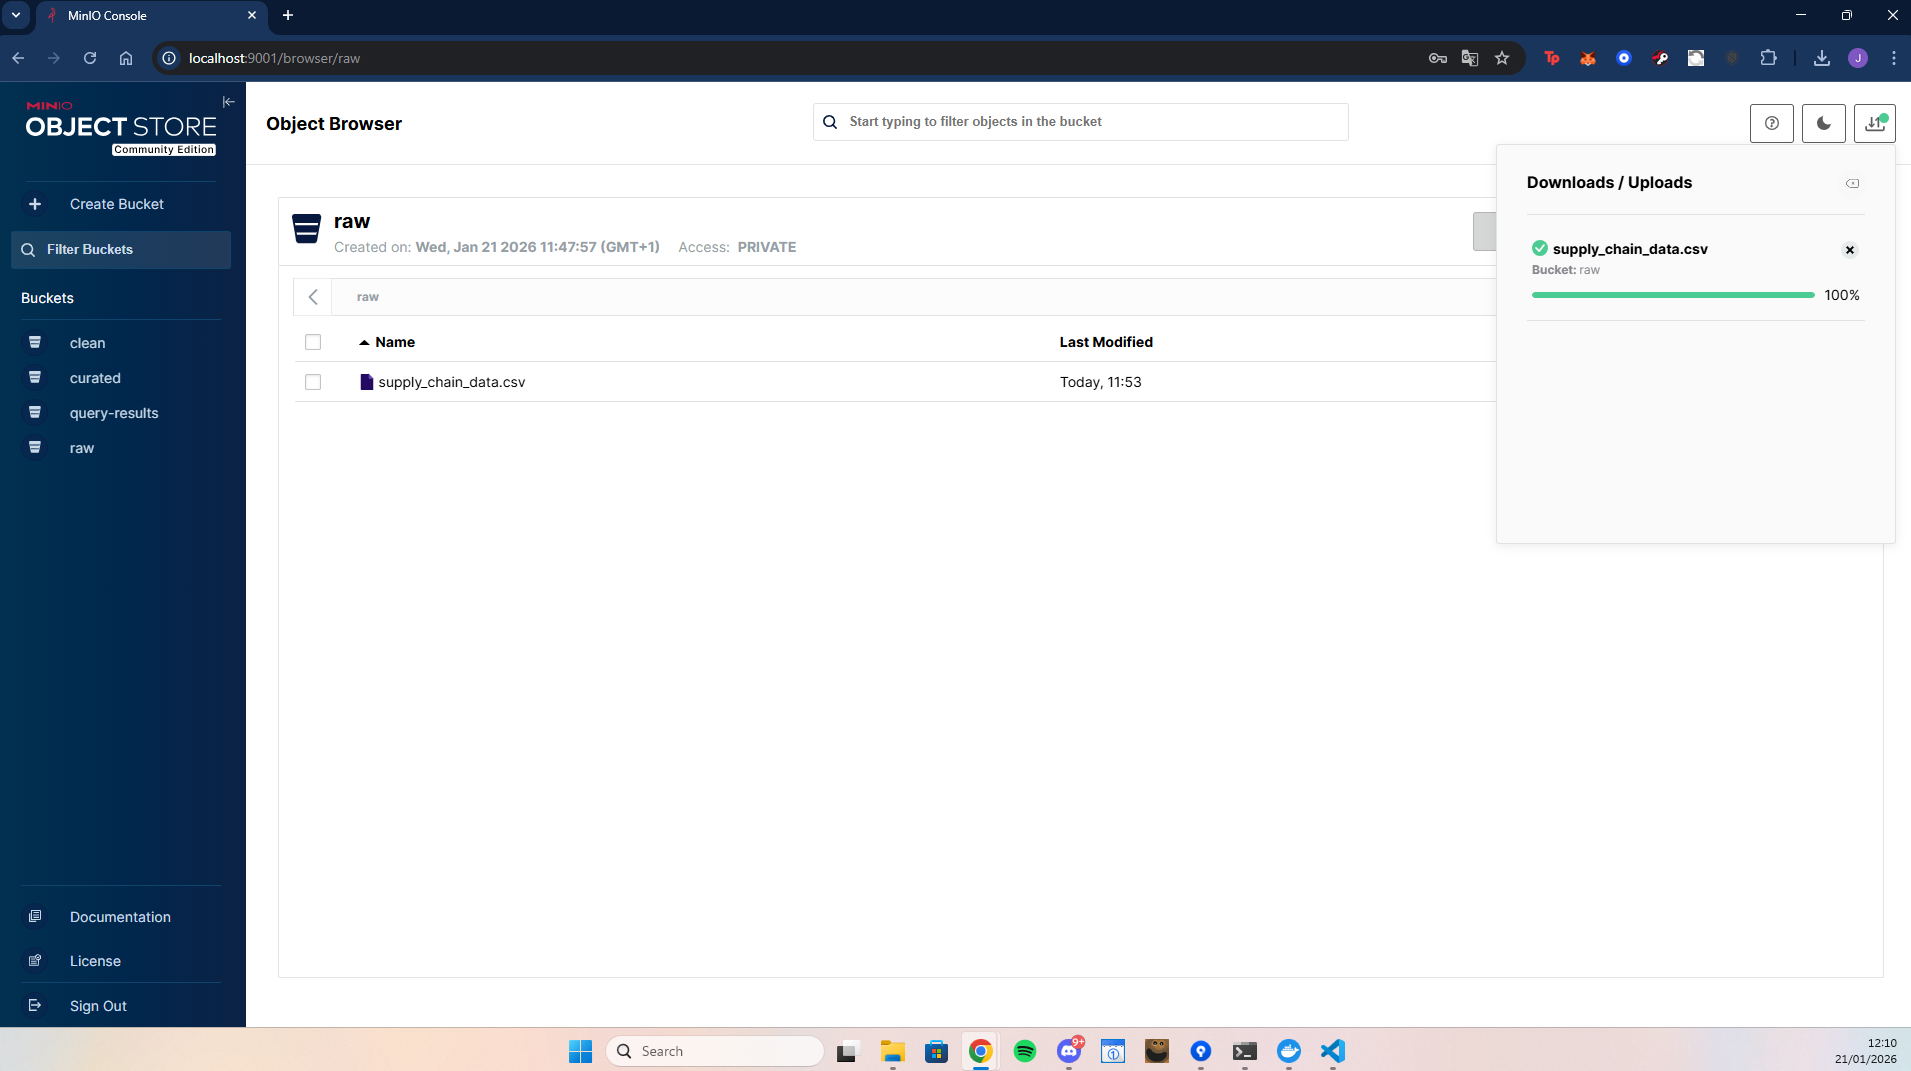
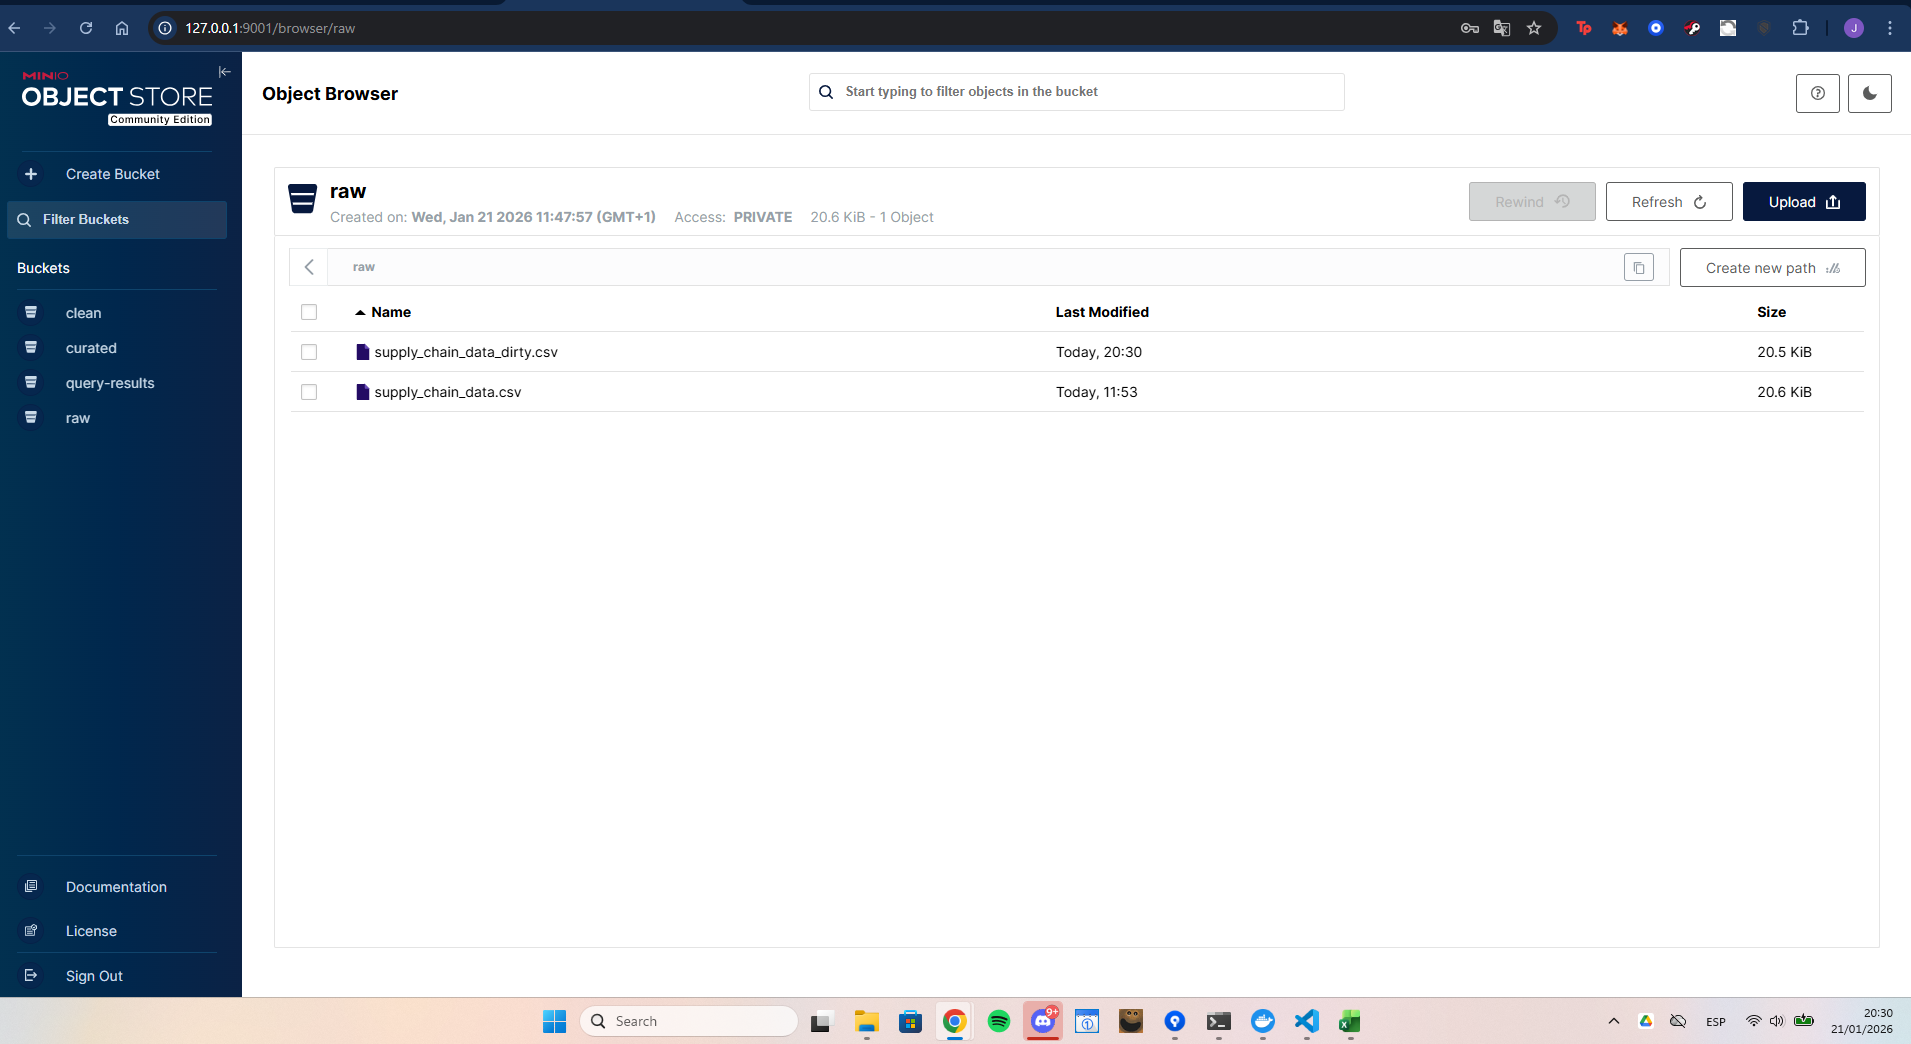
business_questions, kpis and README update

diff --git a/docs/business/kpis.md b/docs/business/kpis.md
@@ -1,0 +1,44 @@
+# KPIs (v0.1)
+
+## Operational KPIs
+1) **Avg Shipping Time**
+- Definition: Average of `Shipping times`
+- Why it matters: delivery speed performance
+
+2) **Avg Lead Time**
+- Definition: Average of `Lead times` (and/or `Lead time` after cleaning)
+- Why it matters: supply responsiveness
+
+3) **Stock Availability Rate (%)**
+- Definition: % of records where `Availability` indicates available
+- Why it matters: inventory health & customer satisfaction
+
+4) **Order Fulfillment Volume**
+- Definition: Sum of `Order quantities`
+- Why it matters: operational throughput
+
+## Cost KPIs
+5) **Total Shipping Cost**
+- Definition: Sum of `Shipping costs`
+- Why it matters: logistics cost control
+
+6) **Avg Shipping Cost per Order**
+- Definition: AVG(`Shipping costs`)
+- Why it matters: unit cost efficiency
+
+7) **Total Manufacturing Cost**
+- Definition: Sum of `Manufacturing costs`
+- Why it matters: production efficiency & cost management
+
+8) **Total Transportation/Route Cost**
+- Definition: Sum of `Costs`
+- Why it matters: route planning and transport optimization
+
+## Quality KPIs
+9) **Avg Defect Rate (%)**
+- Definition: Average of `Defect rates`
+- Why it matters: manufacturing quality performance
+
+10) **Inspection Pass Rate (%)**
+- Definition: % of records where `Inspection results` = Pass (or equivalent)
+- Why it matters: quality control effectiveness

diff --git a/docs/business/business_questions.md b/docs/business/business_questions.md
@@ -1,0 +1,10 @@
+# Business Questions
+
+1) Which suppliers have the highest average **shipping time** and **lead time**?
+2) Which transportation modes and routes are the **most expensive**?
+3) Which regions are the most profitable?
+4) Which SKUs generate the **most revenue**?
+5) Is there a relationship between **stock levels** and **availability**?
+6) Which suppliers have the worst quality outcomes (higher **defect rates**)?
+7) How do **manufacturing costs** and **manufacturing lead time** impact total cost?
+8) What product types have the best performance in terms of revenue vs cost?

diff --git a/README.md b/README.md
@@ -21,6 +21,11 @@ Answer key supply chain questions such as:
 ## Dataset
 Kaggle: Supply Chain Analysis Dataset (https://www.kaggle.com/datasets/harshsingh2209/supply-chain-analysis)
 
+### Data Quality Simulation
+A dirty dataset version is generated to simulate missing/invalid values:
+see `docs/data/dirty_dataset.md`.
+
+
 ## Project Structure
 - `docs/` → documentation (architecture, KPIs, data quality)
 - `etl/` → Glue scripts / ETL logic
